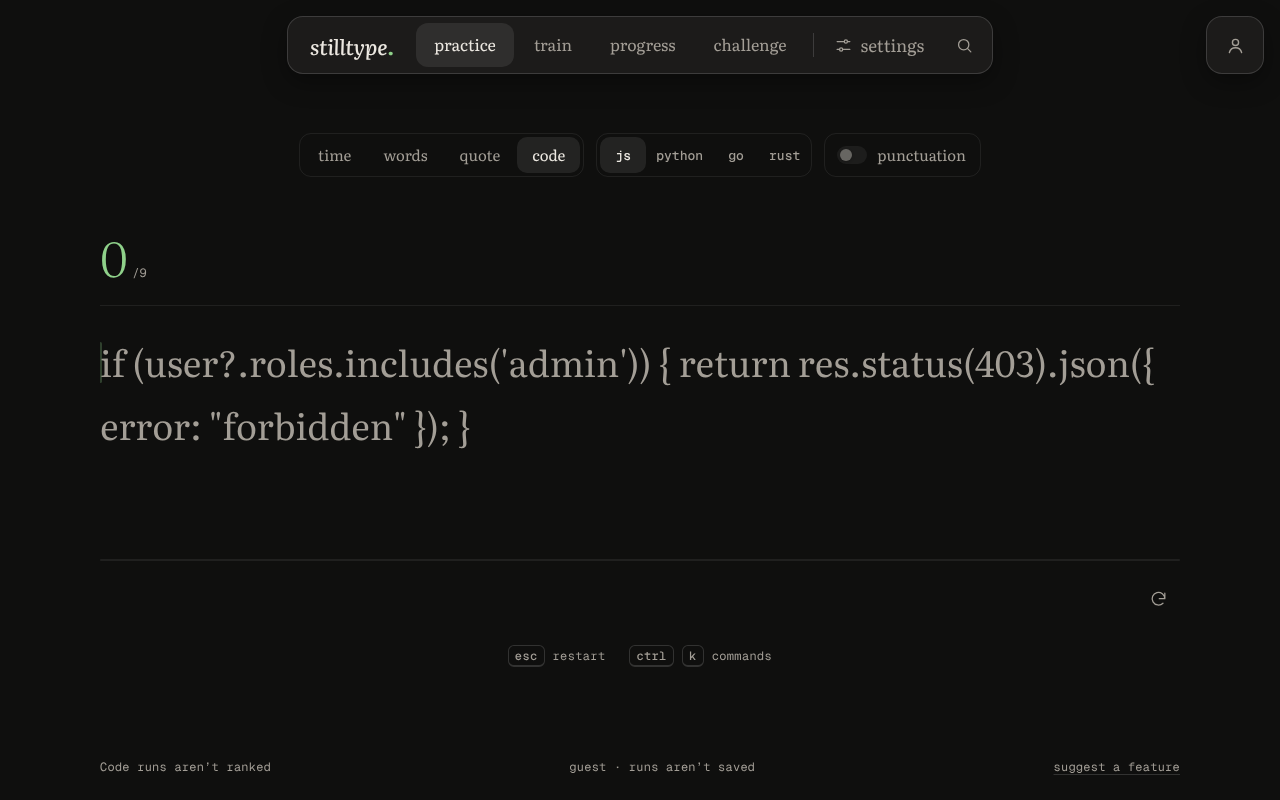
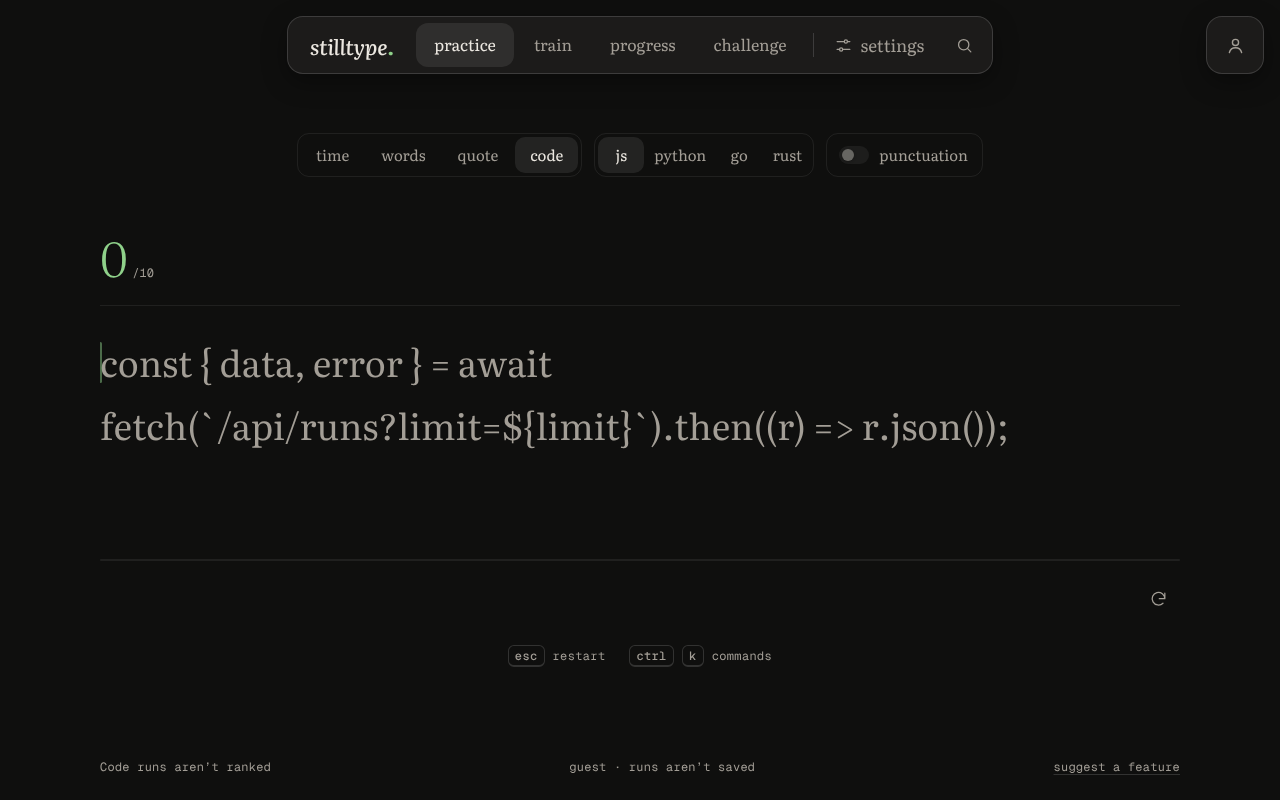
Set code language buttons in Literata
Language names are readable words, not measurement labels, so they no
longer inherit Geist Mono from the compact length group. Numeric length
buttons keep their mono setting. Screenshots regenerated.

Claude-Session: https://claude.ai/code/session_01SaBNo9RHRaTR8cCUjK1iLD

diff --git a/src/styles.css b/src/styles.css
@@ -750,6 +750,9 @@ kbd {
   font: 500 13px/1 var(--font-mono);
 }
 
+/* Code language names are readable words, so they set in Literata like the mode buttons. */
+.segmented.compact button[data-language] { font: inherit; font-family: var(--font-serif); font-size: var(--text-small); }
+
 .compact-switch {
   height: 44px;
   padding: 0 14px 0 12px;
